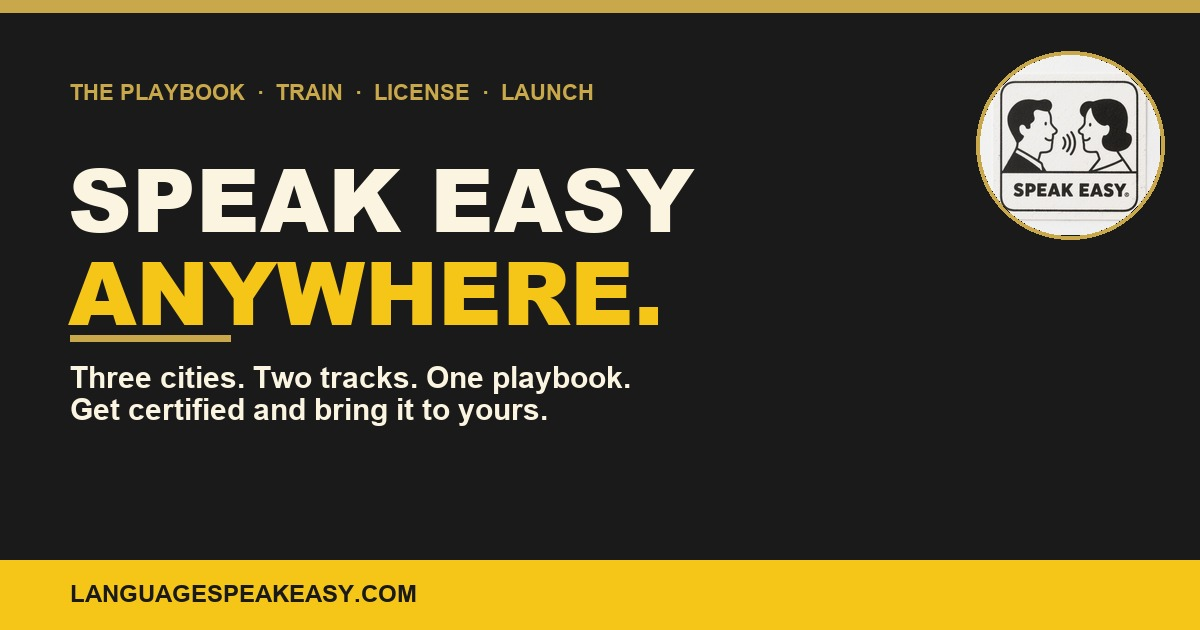
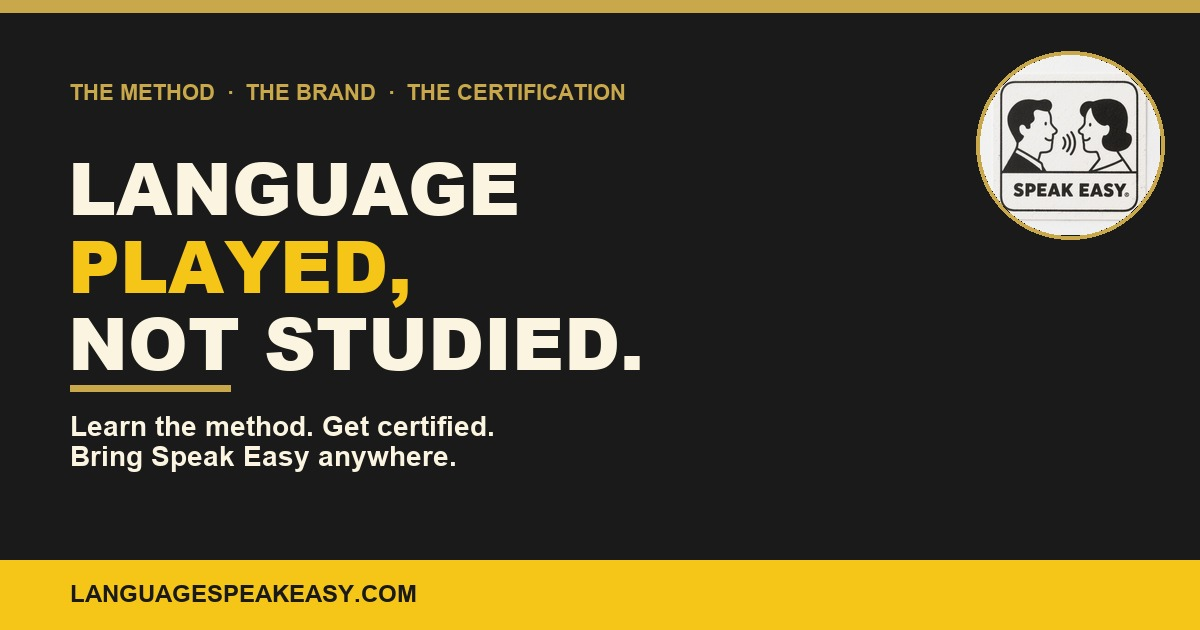
Reframe umbrella as method + certification hub (not city brag)
- Hero: 'LANGUAGE PLAYED, NOT STUDIED.' replaces 'three cities, two tracks'
- Principles bar: PLAY · DOLLARS · RITUAL · PhD (drops false '3 cities live')
- 'The Method' section: six core principles (play, dollars, ritual,
  culture, community, regulation) — what Speak Easy actually IS
- 'Why It Works' section: pedagogy backing (Krashen comprehensible
  input, embodied cognition, token economies, ritual, co-regulation,
  named community)
- City cards moved to a small 'In Practice Now' proof strip below
  the Includes section — proof, not headline
- Nav: 'Cities' → 'The Method', 'How It Works' → 'Why It Works'
- OG image + title rebuilt to match new positioning

Changed region(s): [[0.0617, 0.2413, 0.5858, 0.754], [0.0925, 0.1206, 0.5242, 0.181]]

diff --git a/index.html b/index.html
@@ -3,11 +3,11 @@
 <head>
   <meta charset="UTF-8"/>
   <meta name="viewport" content="width=device-width, initial-scale=1.0"/>
-  <title>Language Speak Easy | Bring Speak Easy to Your City</title>
+  <title>Language Speak Easy | The Method & Certification Hub</title>
   <meta property="og:type" content="website"/>
   <meta property="og:url" content="https://languagespeakeasy.com/"/>
-  <meta property="og:title" content="Language Speak Easy — Train. License. Launch."/>
-  <meta property="og:description" content="The play-based language program running in Columbia and Charlotte, now licensable. Get certified and bring Speak Easy to your city."/>
+  <meta property="og:title" content="Language Speak Easy — Learn the method. Get certified."/>
+  <meta property="og:description" content="The play-based language method. Six principles, two tracks (Adult ESL + Kids Spanish), pedagogy-backed, PhD-built. The hub for learning Speak Easy and getting certified to teach it."/>
   <meta property="og:image" content="./og-umbrella.jpg"/>
   <meta property="og:image:width" content="1200"/>
   <meta property="og:image:height" content="630"/>
@@ -183,11 +183,11 @@
 <nav>
   <a href="#" class="nav-logo-wrap">
     <img src="logo.jpg" alt="Speak Easy" class="nav-logo-img"/>
-    <div class="nav-logo-text">Speak <span>Easy</span><span class="small">THE PLAYBOOK</span></div>
+    <div class="nav-logo-text">Speak <span>Easy</span><span class="small">THE METHOD</span></div>
   </a>
   <ul class="nav-links">
-    <li><a href="#cities">Cities</a></li>
-    <li><a href="#playbook">How It Works</a></li>
+    <li><a href="#method">The Method</a></li>
+    <li><a href="#why">Why It Works</a></li>
     <li><a href="#tracks">Certification</a></li>
     <li><a href="#founder">About</a></li>
     <li><a href="pitch.pdf" target="_blank">Pitch</a></li>
@@ -199,62 +199,112 @@
 <section class="hero">
   <div class="hero-bg"></div>
   <div class="hero-content">
-    <div class="hero-eyebrow">THE PLAYBOOK · TRAIN · LICENSE · LAUNCH</div>
-    <h1 class="hero-title">SPEAK EASY.<br/><span class="gold">ANYWHERE.</span></h1>
+    <div class="hero-eyebrow">THE METHOD · THE BRAND · THE CERTIFICATION</div>
+    <h1 class="hero-title">LANGUAGE<br/><span class="gold">PLAYED,</span><br/>NOT STUDIED.</h1>
     <div class="hero-divider"></div>
-    <div class="hero-sub">Three cities. Two tracks. One method.</div>
-    <p class="hero-desc">Speak Easy is the play-based language program already running in Columbia and Charlotte. Adults learn English in bars over games and drinks. Kids learn Spanish afterschool through songs, parachutes, and piñatas. Now we're licensing the playbook so you can run it in your city.</p>
+    <div class="hero-sub">Learn the method. Get certified. Bring it anywhere.</div>
+    <p class="hero-desc">Speak Easy is a play-based language method built on a simple idea: language doesn't get learned, it gets played. A game-night rhythm, a token economy called Speak Easy Dollars, and a ritual structure that works for adults in bars or kids after school. This is the hub for the method — read about how it works, see the curriculum, and get certified to teach it.</p>
     <div class="hero-btns">
-      <a href="#tracks" class="btn btn-gold">See the Tracks</a>
-      <a href="https://calendly.com/CALENDLY-LINK-HERE" target="_blank" rel="noopener" class="btn btn-outline">Book a Call</a>
+      <a href="#method" class="btn btn-gold">See the Method</a>
+      <a href="#tracks" class="btn btn-outline">Get Certified</a>
     </div>
   </div>
 </section>
 
-<!-- STATS BAR -->
+<!-- METHOD PRINCIPLES BAR -->
 <div class="stats">
   <div class="stats-row">
-    <div><div class="stat-num">3</div><div class="stat-label">Cities Live</div></div>
-    <div><div class="stat-num">2</div><div class="stat-label">Tracks</div></div>
-    <div><div class="stat-num">30+</div><div class="stat-label">Years Teaching</div></div>
-    <div><div class="stat-num">PhD</div><div class="stat-label">U of Michigan</div></div>
+    <div><div class="stat-num">PLAY</div><div class="stat-label">Not Worksheets</div></div>
+    <div><div class="stat-num">$$$</div><div class="stat-label">Speak Easy Dollars</div></div>
+    <div><div class="stat-num">RITUAL</div><div class="stat-label">Same Rhythm Weekly</div></div>
+    <div><div class="stat-num">PhD</div><div class="stat-label">Pedagogy-Backed</div></div>
   </div>
 </div>
 
-<!-- CITIES -->
-<section class="cities" id="cities">
+<!-- THE METHOD -->
+<section class="cities" id="method">
   <div class="section-inner">
-    <div class="section-tag">Already Running</div>
-    <h2>Three rooms. Same playbook.</h2>
-    <p class="subtitle">Speak Easy isn't theoretical. It's running every week in two cities and one afterschool program. Here's what each room looks like.</p>
-    <div class="city-grid">
-      <a href="https://speakeasycolumbia.com" target="_blank" rel="noopener" class="city-card col">
-        <div class="city-band">Adult ESL · LIVE</div>
+    <div class="section-tag">The Method</div>
+    <h2>Six principles. One method.</h2>
+    <p class="subtitle">Speak Easy isn't a curriculum — it's an operating system for language learning. Every class, every track, every city follows the same six principles. The vocabulary changes; the method doesn't.</p>
+    <div class="city-grid" style="grid-template-columns: repeat(3, 1fr);">
+      <div class="city-card col">
+        <div class="city-band">01 · PLAY</div>
         <div class="city-body">
-          <h3>Speak Easy Columbia</h3>
-          <div class="meta">Tue · Thu · Sat · 6:30 PM</div>
-          <p>Spanish speakers learning English at a bar near Columbia College. Drinks, games, Speak Easy Dollars. Mixed levels. Drop-in pricing.</p>
-          <span class="city-link">Visit Site →</span>
+          <h3>Played, Not Studied</h3>
+          <p>Every lesson is delivered as a game. Pictionary, Hot Seat, Fishbowl, Parachute, charades, Bingo. The vocabulary is the prize, not the assignment. Kids and adults both stop noticing they're learning.</p>
         </div>
-      </a>
-      <a href="https://speakeasyclt.com" target="_blank" rel="noopener" class="city-card clt">
-        <div class="city-band">Adult ESL · LIVE</div>
+      </div>
+      <div class="city-card clt">
+        <div class="city-band">02 · DOLLARS</div>
         <div class="city-body">
-          <h3>Speak Easy Charlotte</h3>
-          <div class="meta">Wed · Fri · 6–8 PM</div>
-          <p>Happy-hour Spanglish at two rotating Charlotte bar venues. Same playbook as Columbia, after-work edition. Drink discount included.</p>
-          <span class="city-link">Visit Site →</span>
+          <h3>Speak Easy Dollars</h3>
+          <p>The token economy that runs the room. You earn for showing up, speaking unprompted, catching mistakes, helping a peer. You spend on rounds, prizes, props. Risk and reward in the language itself.</p>
         </div>
-      </a>
-      <a href="https://speakeasy4kids.com" target="_blank" rel="noopener" class="city-card kids">
-        <div class="city-band">K–5 Spanish · PILOTING</div>
+      </div>
+      <div class="city-card kids">
+        <div class="city-band">03 · RITUAL</div>
         <div class="city-body">
-          <h3>Speak Easy Kids</h3>
-          <div class="meta">8-Week Afterschool · K–5</div>
-          <p>Play-based Spanish for kids. 6 rotating sessions, breathing techniques, parachute games, piñatas, finale showcase. Schools or in-home.</p>
-          <span class="city-link">Visit Site →</span>
+          <h3>Same Rhythm Every Week</h3>
+          <p>Greeting Gate → Feelings Wheel → Parachute → Theme → Embodied Game → Closing. Kids know what to expect. Adults relax into it. The structure is the safety net that lets the language happen.</p>
         </div>
-      </a>
+      </div>
+      <div class="city-card col">
+        <div class="city-band">04 · CULTURE</div>
+        <div class="city-body">
+          <h3>Words Tied to Culture</h3>
+          <p>You don't learn "queso" — you learn how to build a pizza in Spanish, sitting in a V on the floor, miming cheese onto your legs. Vocabulary attached to lived experience. Week 4 always ends with a piñata.</p>
+        </div>
+      </div>
+      <div class="city-card clt">
+        <div class="city-band">05 · COMMUNITY</div>
+        <div class="city-body">
+          <h3>No Anonymous Students</h3>
+          <p>The Greeting Gate. The Friend Bench (Banco de Amigos). The Calm Space (Espacio Tranquilo). Names learned by Week 2. The room is the lesson; everyone in it is part of the curriculum.</p>
+        </div>
+      </div>
+      <div class="city-card kids">
+        <div class="city-band">06 · REGULATION</div>
+        <div class="city-body">
+          <h3>Breathing, Movement, Reset</h3>
+          <p>One regulation technique per session: belly breathing, flower breath, volcano breath, partner breathing. Animal stretches. Sensory grounding. Kids learn Spanish AND a nervous system toolkit.</p>
+        </div>
+      </div>
+    </div>
+  </div>
+</section>
+
+<!-- WHY IT WORKS -->
+<section class="playbook" id="why">
+  <div class="section-inner">
+    <div class="section-tag">Why It Works</div>
+    <h2>The pedagogy behind the play.</h2>
+    <p class="subtitle">The method looks loose. It isn't. Every choice — the rituals, the dollars, the embodied learning, the regulation tools — is grounded in established second-language acquisition research and developmental pedagogy.</p>
+    <div class="playbook-grid">
+      <div class="pb-card" data-num="A">
+        <h3>Comprehensible Input + Affective Filter</h3>
+        <p>Krashen's classic finding: language is acquired when input is understandable and anxiety is low. Bars relax adults. Games relax kids. Speak Easy lowers the affective filter on purpose so input lands.</p>
+      </div>
+      <div class="pb-card" data-num="B">
+        <h3>Embodied Cognition</h3>
+        <p>Vocabulary attached to physical action (sitting in a V "spreading pizza," parachute lifts on colors, animal stretches) sticks deeper than vocabulary read off a page. The body is part of memory.</p>
+      </div>
+      <div class="pb-card" data-num="C">
+        <h3>Token Economies as Motivation</h3>
+        <p>Speak Easy Dollars function like the behavior-economics literature on reinforcement schedules. Variable, immediate, social. They make risk in a second language feel safe — and rewarded.</p>
+      </div>
+      <div class="pb-card" data-num="D">
+        <h3>Ritual + Predictability</h3>
+        <p>Same opening every class. Same closing. Same Friend Bench and Calm Space. Predictable structure lowers cognitive load, which is exactly the load that needs to be free for language to land.</p>
+      </div>
+      <div class="pb-card" data-num="E">
+        <h3>Co-Regulation</h3>
+        <p>Breathing techniques and movement breaks aren't extras — they're the nervous-system infrastructure that makes the rest of the lesson possible. A regulated room is a learning room.</p>
+      </div>
+      <div class="pb-card" data-num="F">
+        <h3>Named Community</h3>
+        <p>Kids who can name every peer by Week 2 outperform kids in anonymous rooms on almost every social-emotional metric. The Greeting Gate isn't decoration — it's the foundation.</p>
+      </div>
     </div>
   </div>
 </section>
@@ -364,6 +414,32 @@
       <div class="inc-item"><div class="ic">🎨</div><h4>Marketing Kit</h4><p>Logo, OG images, flyers, social posts, pitch deck templates. Your launch materials, ready to customize.</p></div>
       <div class="inc-item"><div class="ic">🎓</div><h4>Live Practicum</h4><p>1:1 Zoom with Dr. Bishop. You run a mock class segment, she gives notes. You don't pass until you can run a room.</p></div>
       <div class="inc-item"><div class="ic">🤝</div><h4>The Network</h4><p>Monthly Q&amp;A, private channel with other certified instructors, new curriculum releases as they drop.</p></div>
+    </div>
+  </div>
+</section>
+
+<!-- IN PRACTICE NOW (proof strip) -->
+<section style="background: var(--dark); padding: 4rem 2rem; border-top: 4px solid var(--gold);">
+  <div class="section-inner" style="text-align: center;">
+    <div class="section-tag" style="display:inline-block;">The Method, In Practice</div>
+    <h2 style="margin-bottom: 0.5rem;">Currently being taught at:</h2>
+    <p class="subtitle" style="margin: 0 auto 2.5rem;">Two adult programs and one K–5 pilot. Each runs the same method.</p>
+    <div style="display: grid; grid-template-columns: repeat(3, 1fr); gap: 1.25rem; max-width: 900px; margin: 0 auto;">
+      <a href="https://speakeasycolumbia.com" target="_blank" rel="noopener" style="background:#222;border:2px solid var(--red);padding:1.5rem 1rem;text-decoration:none;color:var(--cream);display:block;transition:transform 0.15s;">
+        <div style="font-family:'Oswald',sans-serif;font-size:0.7rem;letter-spacing:3px;color:var(--red);font-weight:700;margin-bottom:0.4rem;">ADULT ESL · LIVE</div>
+        <div style="font-family:'Oswald',sans-serif;font-size:1.2rem;letter-spacing:1px;margin-bottom:0.5rem;">SPEAK EASY COLUMBIA</div>
+        <div style="font-family:'Special Elite',cursive;font-size:0.75rem;color:rgba(250,244,225,0.6);letter-spacing:1px;">Tue · Thu · Sat · Columbia, SC</div>
+      </a>
+      <a href="https://speakeasyclt.com" target="_blank" rel="noopener" style="background:#222;border:2px solid var(--gold);padding:1.5rem 1rem;text-decoration:none;color:var(--cream);display:block;transition:transform 0.15s;">
+        <div style="font-family:'Oswald',sans-serif;font-size:0.7rem;letter-spacing:3px;color:var(--gold);font-weight:700;margin-bottom:0.4rem;">ADULT ESL · LIVE</div>
+        <div style="font-family:'Oswald',sans-serif;font-size:1.2rem;letter-spacing:1px;margin-bottom:0.5rem;">SPEAK EASY CHARLOTTE</div>
+        <div style="font-family:'Special Elite',cursive;font-size:0.75rem;color:rgba(250,244,225,0.6);letter-spacing:1px;">Wed · Fri · Charlotte, NC</div>
+      </a>
+      <a href="https://speakeasy4kids.com" target="_blank" rel="noopener" style="background:#222;border:2px solid var(--yellow);padding:1.5rem 1rem;text-decoration:none;color:var(--cream);display:block;transition:transform 0.15s;">
+        <div style="font-family:'Oswald',sans-serif;font-size:0.7rem;letter-spacing:3px;color:var(--yellow);font-weight:700;margin-bottom:0.4rem;">K–5 SPANISH · PILOT</div>
+        <div style="font-family:'Oswald',sans-serif;font-size:1.2rem;letter-spacing:1px;margin-bottom:0.5rem;">SPEAK EASY 4 KIDS</div>
+        <div style="font-family:'Special Elite',cursive;font-size:0.75rem;color:rgba(250,244,225,0.6);letter-spacing:1px;">Afterschool · Carolinas · Fall 2025</div>
+      </a>
     </div>
   </div>
 </section>